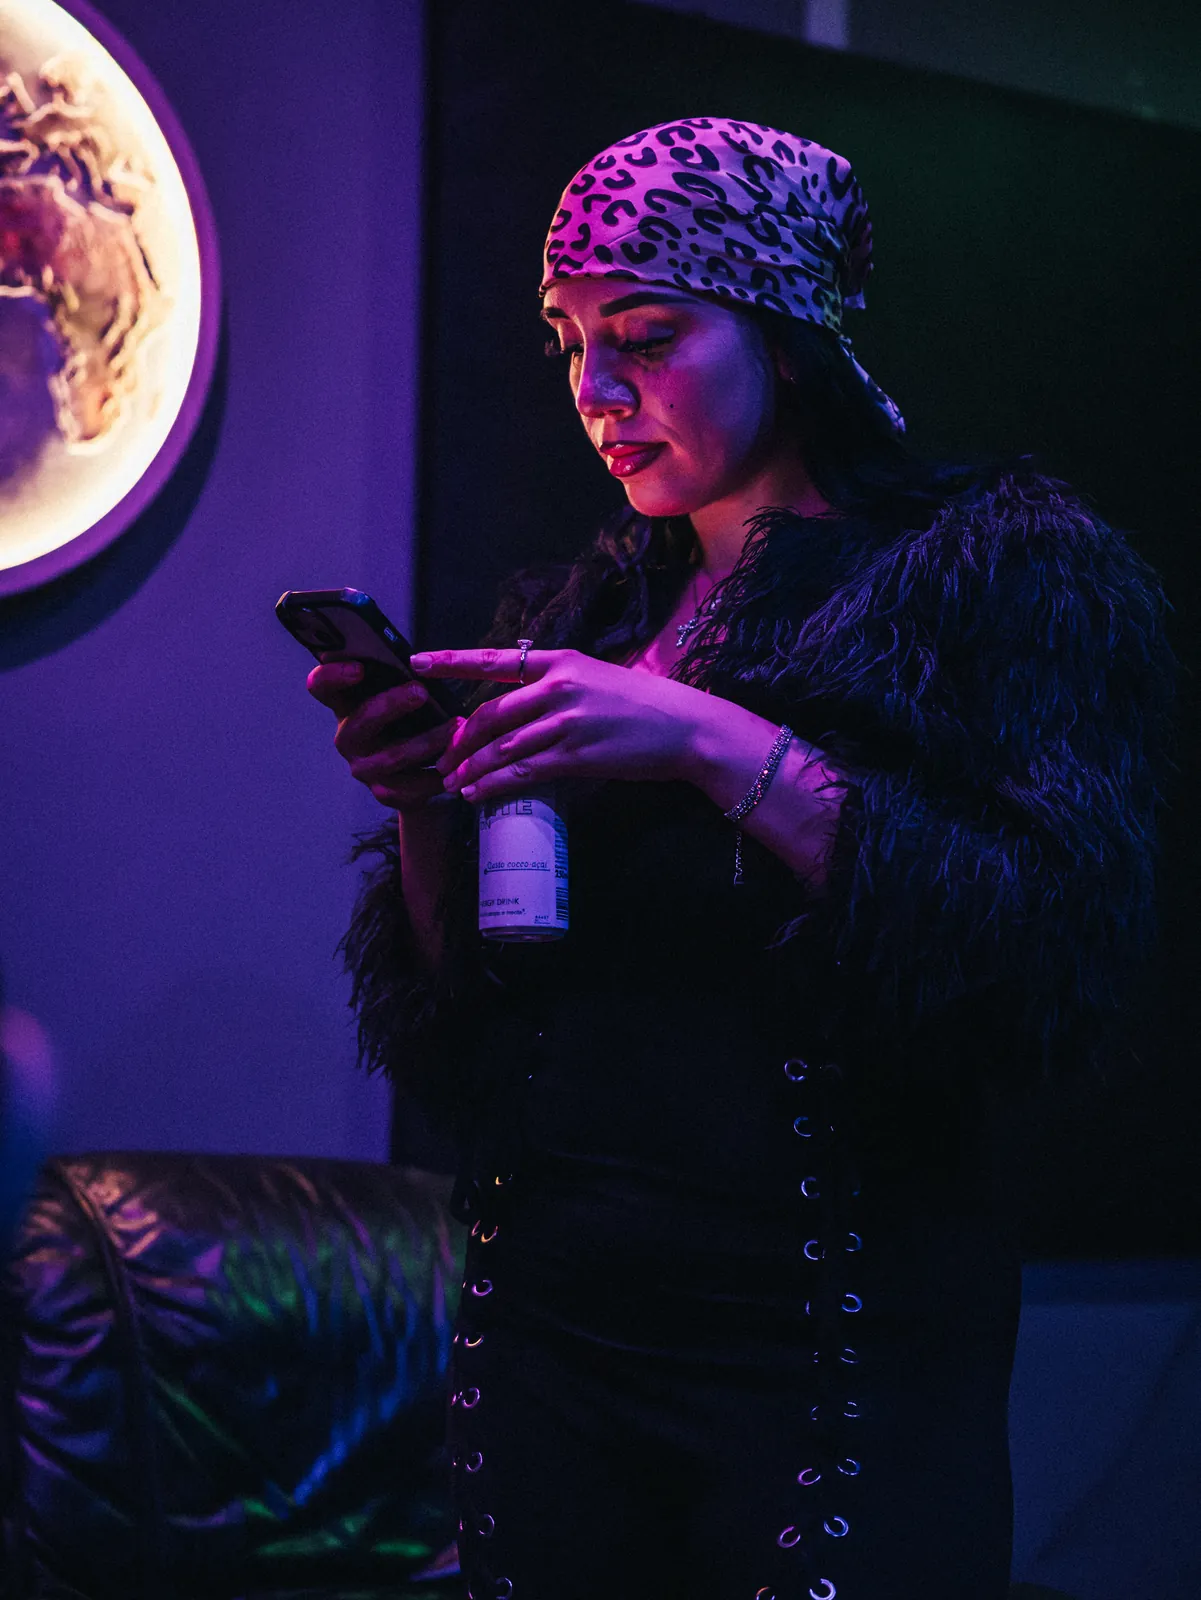
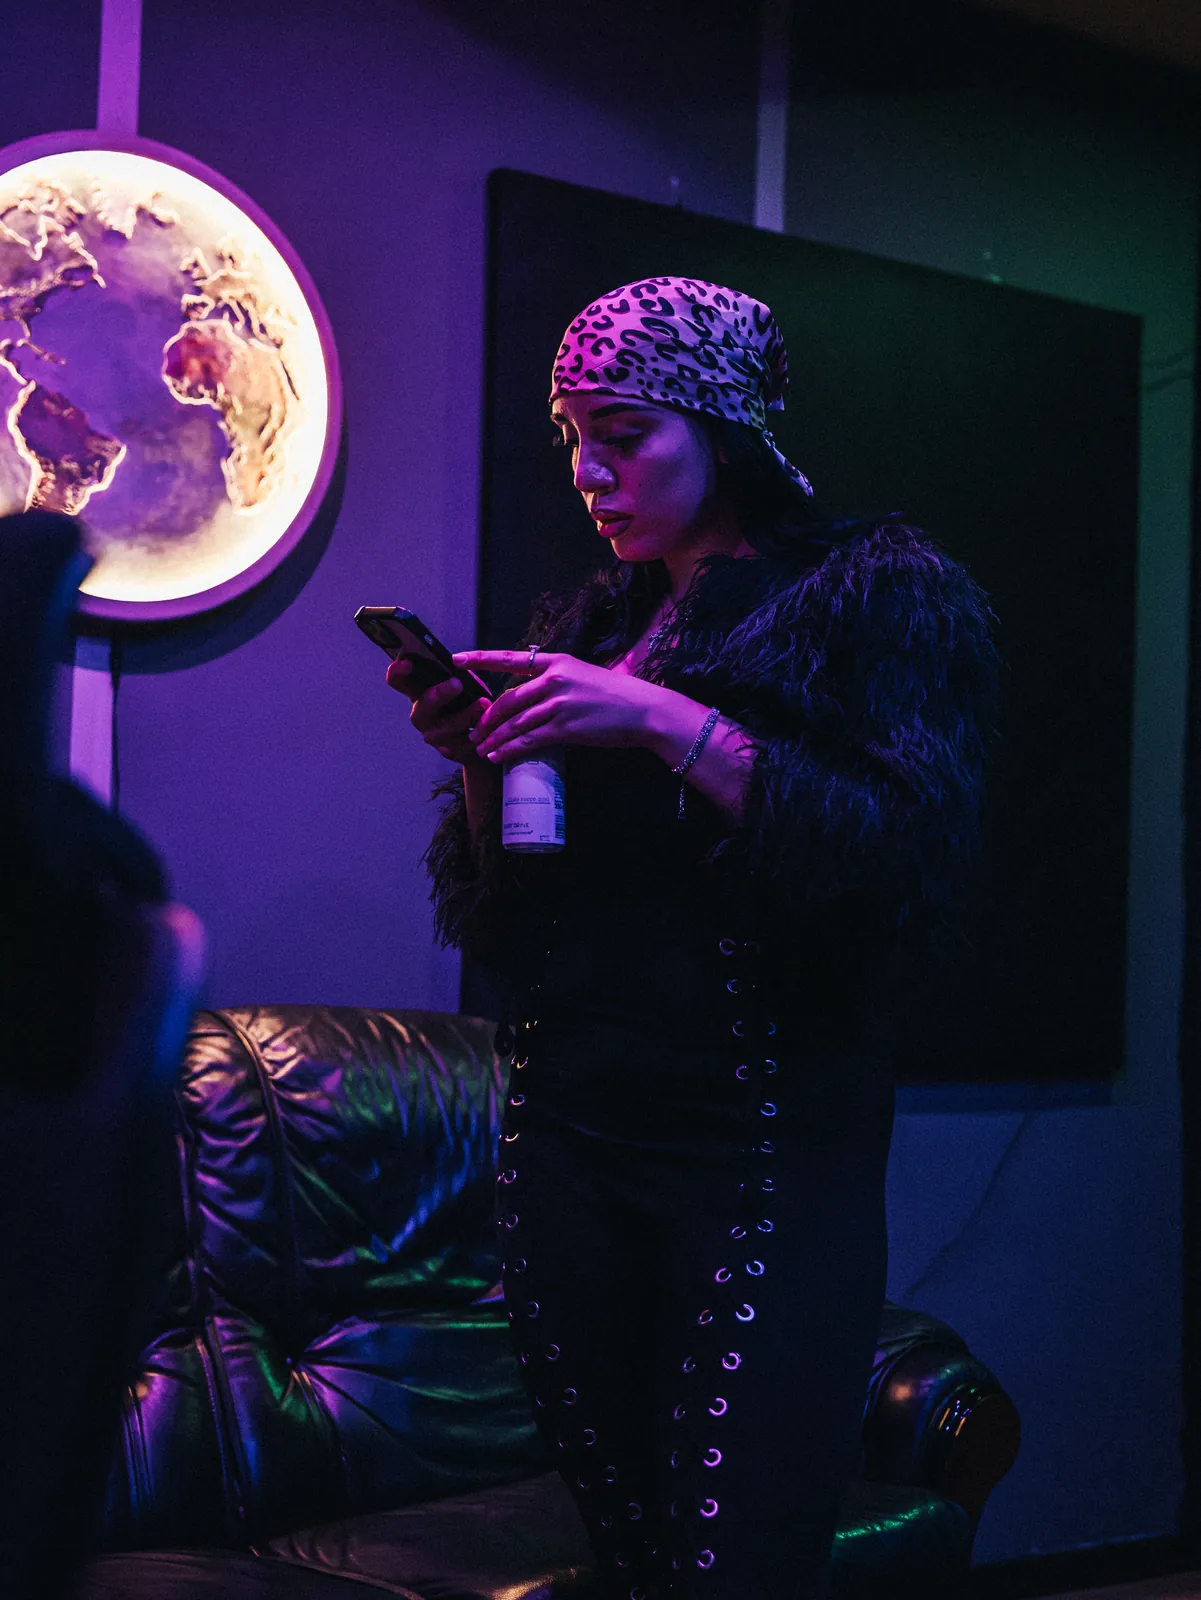
Progetti: Chiaraa con le foto scelte (principale accanto al globo, due al microfono)

diff --git a/sito/progetti.html b/sito/progetti.html
@@ -72,9 +72,9 @@
             <div class="artist-tags"><span>Sessione in studio</span><span>Ottobre 2026</span></div>
           </div>
           <div class="trio reveal" data-lightbox>
-            <div class="media main"><img src="assets/img/artisti/chiaraa/01.webp" alt="Chiaraa accanto al globo" loading="lazy"></div>
-            <div class="media"><img src="assets/img/artisti/chiaraa/02.webp" alt="Chiaraa vista dalla regia attraverso il vetro" loading="lazy"></div>
-            <div class="media"><img src="assets/img/artisti/chiaraa/03.webp" alt="Chiaraa con le cuffie al microfono" loading="lazy"></div>
+            <div class="media main"><img src="assets/img/artisti/chiaraa/01.webp" alt="Chiaraa in piedi accanto al globo" loading="lazy"></div>
+            <div class="media"><img src="assets/img/artisti/chiaraa/02.webp" alt="Chiaraa al microfono con le cuffie" loading="lazy"></div>
+            <div class="media"><img src="assets/img/artisti/chiaraa/03.webp" alt="Chiaraa in sala di registrazione" loading="lazy"></div>
           </div>
         </article>
       </div>
